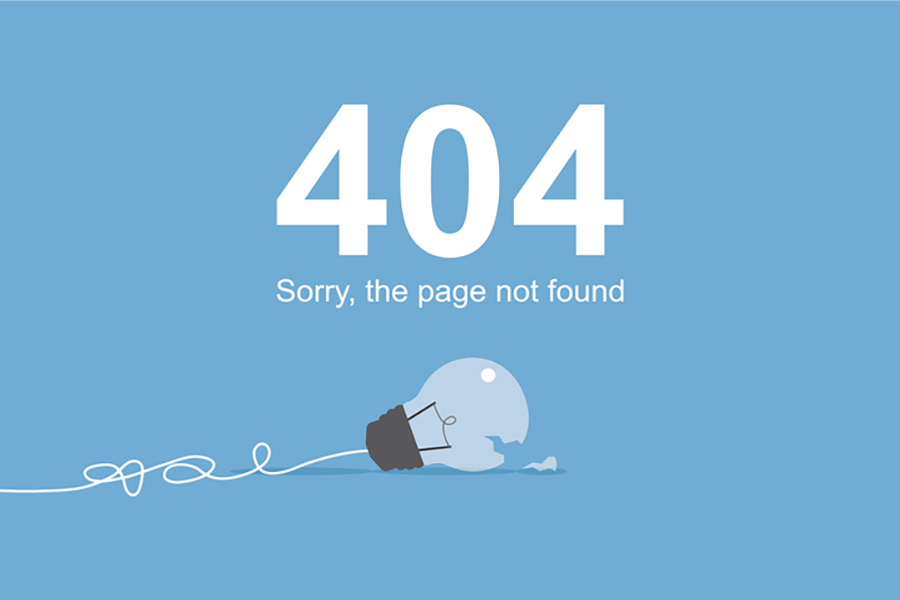
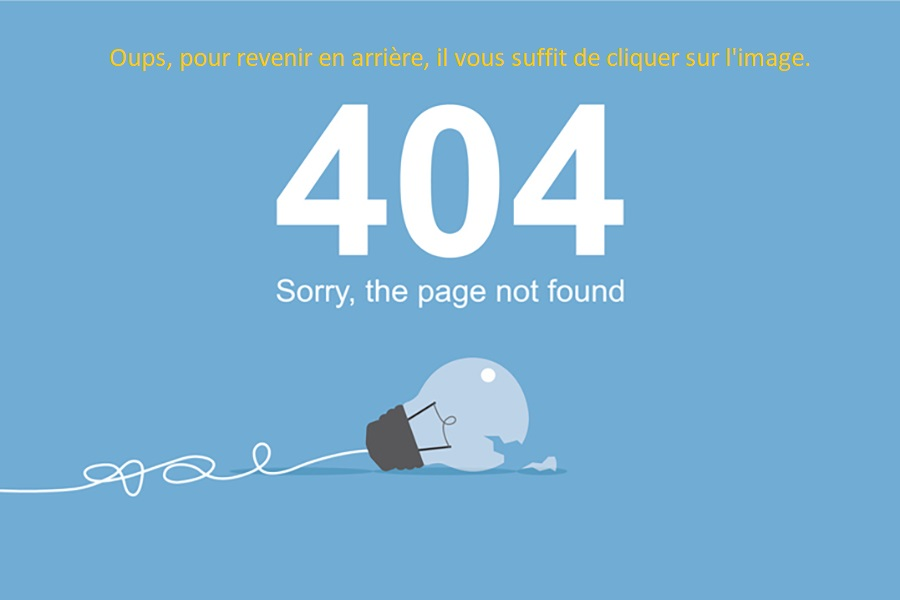
page 404

Changed region(s): [[0.1244, 0.06, 0.9022, 0.12]]

diff --git a/src/views/ThePage404.vue b/src/views/ThePage404.vue
@@ -4,18 +4,10 @@
 
 <template>
     <div>
-        <h3>
-            <a href="https://github.com/Re-Spire/CV" target="_blank" ref="CV">Clic sur l'image pour revenir en arrière</a>
-        </h3>
-        <img src="/src/assets/img/error-404.png" alt="">
+        <a href="javascript:history.go(-1)"><img src="/src/assets/img/error-404.png" alt=""></a>
     </div>
 </template>
 
 <style scoped>
 
-h2 {
-    font-size: 110px;
- color: #6d2908;
-}
-    
 </style>

diff --git a/src/components/TheFooter.vue b/src/components/TheFooter.vue
@@ -3,7 +3,7 @@
 
     <Footer>
 
-<small>Dernière mise à jour le 03 juillet 2024</small>  
+<small>Dernière mise à jour le 15 juillet 2024</small>  
 
 <div>
     <a href="https://github.com/Re-Spire" target="_blank" ref="GitHub"><img src="/src/assets/img/GitHub.png" alt="logo GitHub"></a>
